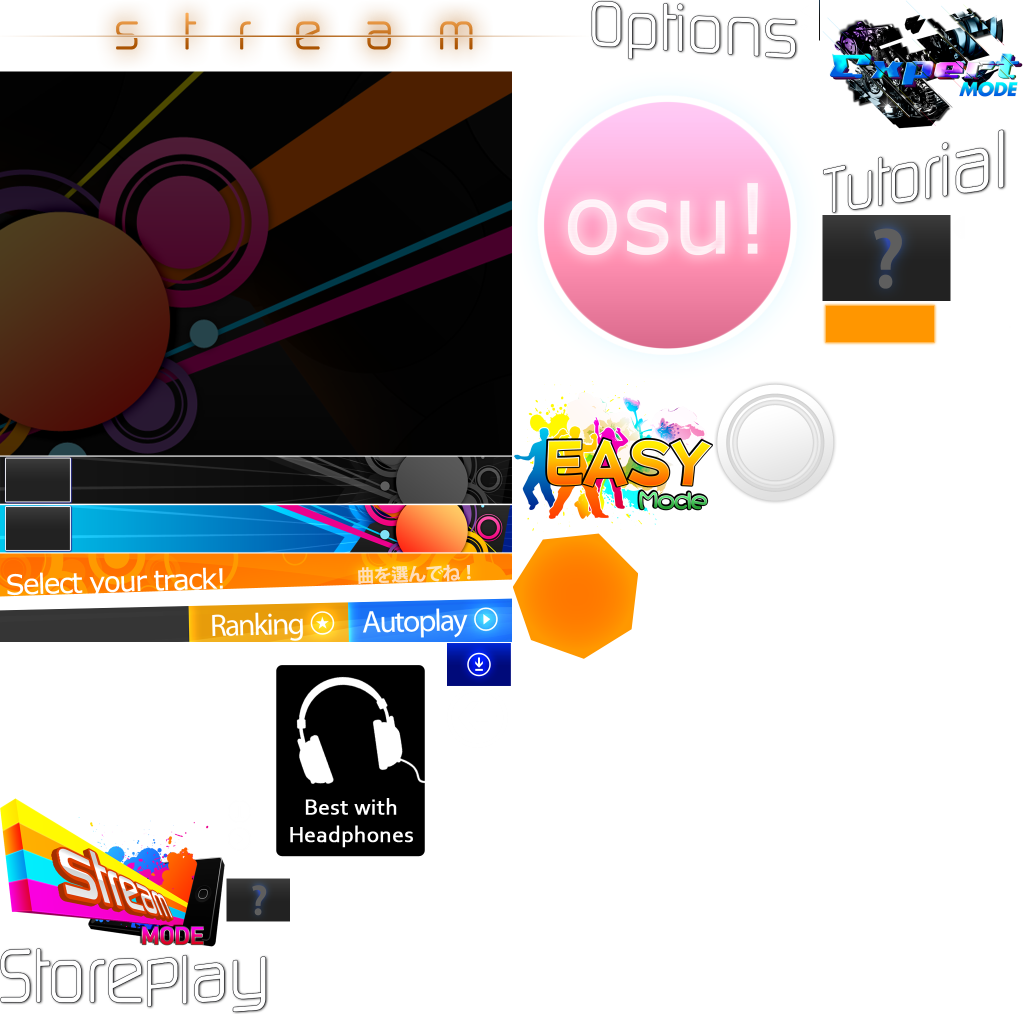
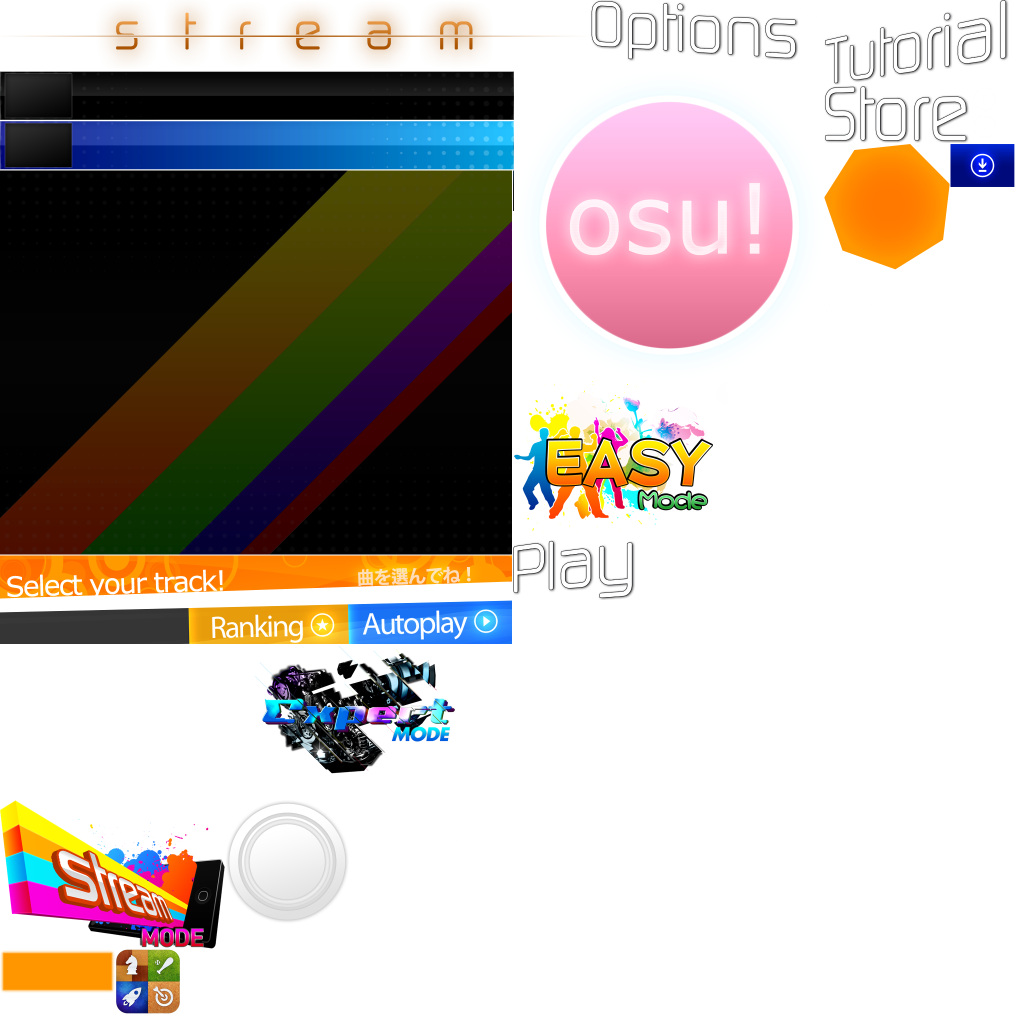
Sprite sheet updates and optimisations.

diff --git a/osum/Graphics/TextureManager_Load.cs b/osum/Graphics/TextureManager_Load.cs
@@ -80,41 +80,39 @@ namespace osum.Graphics.Skins
             textureLocations.Add(OsuTexture.default_1, new SpriteSheetTexture("hit", 2033, 287, 13, 47));
             textureLocations.Add(OsuTexture.followpoint, new SpriteSheetTexture("hit", 1749, 116, 11, 11));
             textureLocations.Add(OsuTexture.connectionline, new SpriteSheetTexture("hit", 1762, 116, 4, 13));
+            textureLocations.Add(OsuTexture.menu_headphones, new SpriteSheetTexture("intro", 0, 0, 382, 469));
             textureLocations.Add(OsuTexture.menu_stream, new SpriteSheetTexture("menu", 0, 0, 1178, 141));
-            textureLocations.Add(OsuTexture.songselect_background, new SpriteSheetTexture("menu", 0, 143, 1024, 768));
-            textureLocations.Add(OsuTexture.songselect_panel, new SpriteSheetTexture("menu", 0, 913, 1024, 95));
-            textureLocations.Add(OsuTexture.songselect_panel_selected, new SpriteSheetTexture("menu", 0, 1010, 1024, 95));
-            textureLocations.Add(OsuTexture.songselect_header, new SpriteSheetTexture("menu", 0, 1107, 1024, 88));
-            textureLocations.Add(OsuTexture.songselect_footer, new SpriteSheetTexture("menu", 0, 1197, 1024, 87));
-            textureLocations.Add(OsuTexture.menu_osu, new SpriteSheetTexture("menu", 1026, 143, 617, 617));
-            textureLocations.Add(OsuTexture.menu_gloss, new SpriteSheetTexture("menu", 0, 1286, 508, 308));
-            textureLocations.Add(OsuTexture.songselect_mode_stream, new SpriteSheetTexture("menu", 0, 1596, 450, 297));
+            textureLocations.Add(OsuTexture.songselect_panel, new SpriteSheetTexture("menu", 0, 143, 1028, 97));
+            textureLocations.Add(OsuTexture.songselect_panel_selected, new SpriteSheetTexture("menu", 0, 242, 1028, 97));
+            textureLocations.Add(OsuTexture.songselect_background, new SpriteSheetTexture("menu", 0, 341, 1024, 768));
+            textureLocations.Add(OsuTexture.songselect_header, new SpriteSheetTexture("menu", 0, 1111, 1024, 88));
+            textureLocations.Add(OsuTexture.songselect_footer, new SpriteSheetTexture("menu", 0, 1201, 1024, 87));
+            textureLocations.Add(OsuTexture.menu_osu, new SpriteSheetTexture("menu", 1030, 143, 617, 617));
+            textureLocations.Add(OsuTexture.menu_gloss, new SpriteSheetTexture("menu", 0, 1290, 508, 308));
+            textureLocations.Add(OsuTexture.songselect_mode_stream, new SpriteSheetTexture("menu", 0, 1600, 450, 297));
             textureLocations.Add(OsuTexture.menu_options, new SpriteSheetTexture("menu", 1180, 0, 417, 123));
             textureLocations.Add(OsuTexture.songselect_mode_easy, new SpriteSheetTexture("menu", 1026, 762, 400, 303));
-            textureLocations.Add(OsuTexture.songselect_mode_expert, new SpriteSheetTexture("menu", 1645, 0, 400, 257));
-            textureLocations.Add(OsuTexture.menu_headphones, new SpriteSheetTexture("menu", 510, 1286, 382, 469));
-            textureLocations.Add(OsuTexture.menu_tutorial, new SpriteSheetTexture("menu", 1645, 259, 371, 169));
-            textureLocations.Add(OsuTexture.menu_store, new SpriteSheetTexture("menu", 0, 1895, 291, 115));
-            textureLocations.Add(OsuTexture.songselect_thumbnail_large, new SpriteSheetTexture("menu", 1645, 430, 256, 172));
-            textureLocations.Add(OsuTexture.songselect_back_hexagon, new SpriteSheetTexture("menu", 1026, 1067, 250, 251));
-            textureLocations.Add(OsuTexture.menu_circle, new SpriteSheetTexture("menu", 1428, 762, 246, 248));
-            textureLocations.Add(OsuTexture.menu_play, new SpriteSheetTexture("menu", 293, 1895, 246, 133));
-            textureLocations.Add(OsuTexture.songselect_store_buy_background, new SpriteSheetTexture("menu", 1645, 604, 230, 87));
-            textureLocations.Add(OsuTexture.songselect_thumb_dl, new SpriteSheetTexture("menu", 894, 1286, 128, 86));
-            textureLocations.Add(OsuTexture.songselect_thumbnail, new SpriteSheetTexture("menu", 452, 1757, 128, 86));
-            textureLocations.Add(OsuTexture.songselect_back_arrow, new SpriteSheetTexture("menu", 894, 1374, 122, 125));
-            textureLocations.Add(OsuTexture.songselect_audio_pause, new SpriteSheetTexture("menu", 452, 1596, 54, 53));
-            textureLocations.Add(OsuTexture.songselect_audio_play, new SpriteSheetTexture("menu", 452, 1651, 54, 53));
-            textureLocations.Add(OsuTexture.songselect_audio_preview, new SpriteSheetTexture("menu", 1903, 430, 54, 53));
+            textureLocations.Add(OsuTexture.songselect_mode_expert, new SpriteSheetTexture("menu", 510, 1290, 400, 257));
+            textureLocations.Add(OsuTexture.menu_tutorial, new SpriteSheetTexture("menu", 1649, 0, 371, 169));
+            textureLocations.Add(OsuTexture.menu_store, new SpriteSheetTexture("menu", 1649, 171, 291, 115));
+            textureLocations.Add(OsuTexture.songselect_back_hexagon, new SpriteSheetTexture("menu", 1649, 288, 250, 251));
+            textureLocations.Add(OsuTexture.menu_circle, new SpriteSheetTexture("menu", 452, 1600, 246, 248));
+            textureLocations.Add(OsuTexture.menu_play, new SpriteSheetTexture("menu", 1026, 1067, 246, 133));
+            textureLocations.Add(OsuTexture.songselect_store_buy_background, new SpriteSheetTexture("menu", 0, 1899, 230, 87));
+            textureLocations.Add(OsuTexture.gamecentre, new SpriteSheetTexture("menu", 232, 1899, 128, 128));
+            textureLocations.Add(OsuTexture.songselect_thumb_dl, new SpriteSheetTexture("menu", 1901, 288, 128, 86));
+            textureLocations.Add(OsuTexture.songselect_back_arrow, new SpriteSheetTexture("menu", 1649, 541, 122, 125));
+            textureLocations.Add(OsuTexture.songselect_audio_pause, new SpriteSheetTexture("menu", 1942, 171, 54, 53));
+            textureLocations.Add(OsuTexture.songselect_audio_play, new SpriteSheetTexture("menu", 1942, 226, 54, 53));
+            textureLocations.Add(OsuTexture.songselect_audio_preview, new SpriteSheetTexture("menu", 1428, 762, 54, 53));
             textureLocations.Add(OsuTexture.songselect_mode_arrow, new SpriteSheetTexture("menu", 1599, 0, 37, 43));
             textureLocations.Add(OsuTexture.songselect_star, new SpriteSheetTexture("menu", 1599, 45, 18, 17));
-            textureLocations.Add(OsuTexture.menu_item_background, new SpriteSheetTexture("menu", 2018, 259, 4, 400));
-            textureLocations.Add(OsuTexture.songselect_tab_bar_background, new SpriteSheetTexture("menu", 1638, 0, 2, 81));
+            textureLocations.Add(OsuTexture.menu_item_background, new SpriteSheetTexture("menu", 912, 1290, 4, 400));
+            textureLocations.Add(OsuTexture.songselect_tab_bar_background, new SpriteSheetTexture("menu", 1026, 341, 2, 81));
             textureLocations.Add(OsuTexture.notification_background, new SpriteSheetTexture("notification", 0, 0, 900, 514));
             textureLocations.Add(OsuTexture.notification_button_ok, new SpriteSheetTexture("notification", 0, 516, 499, 79));
             textureLocations.Add(OsuTexture.notification_button_no, new SpriteSheetTexture("notification", 0, 597, 359, 79));
             textureLocations.Add(OsuTexture.notification_button_yes, new SpriteSheetTexture("notification", 0, 678, 359, 79));
-            textureLocations.Add(OsuTexture.gamecentre, new SpriteSheetTexture("options", 0, 0, 128, 128));
             textureLocations.Add(OsuTexture.ranking_footer, new SpriteSheetTexture("ranking", 0, 0, 1024, 93));
             textureLocations.Add(OsuTexture.ranking_background, new SpriteSheetTexture("ranking", 0, 95, 814, 527));
             textureLocations.Add(OsuTexture.rank_x, new SpriteSheetTexture("ranking", 816, 95, 388, 482));
